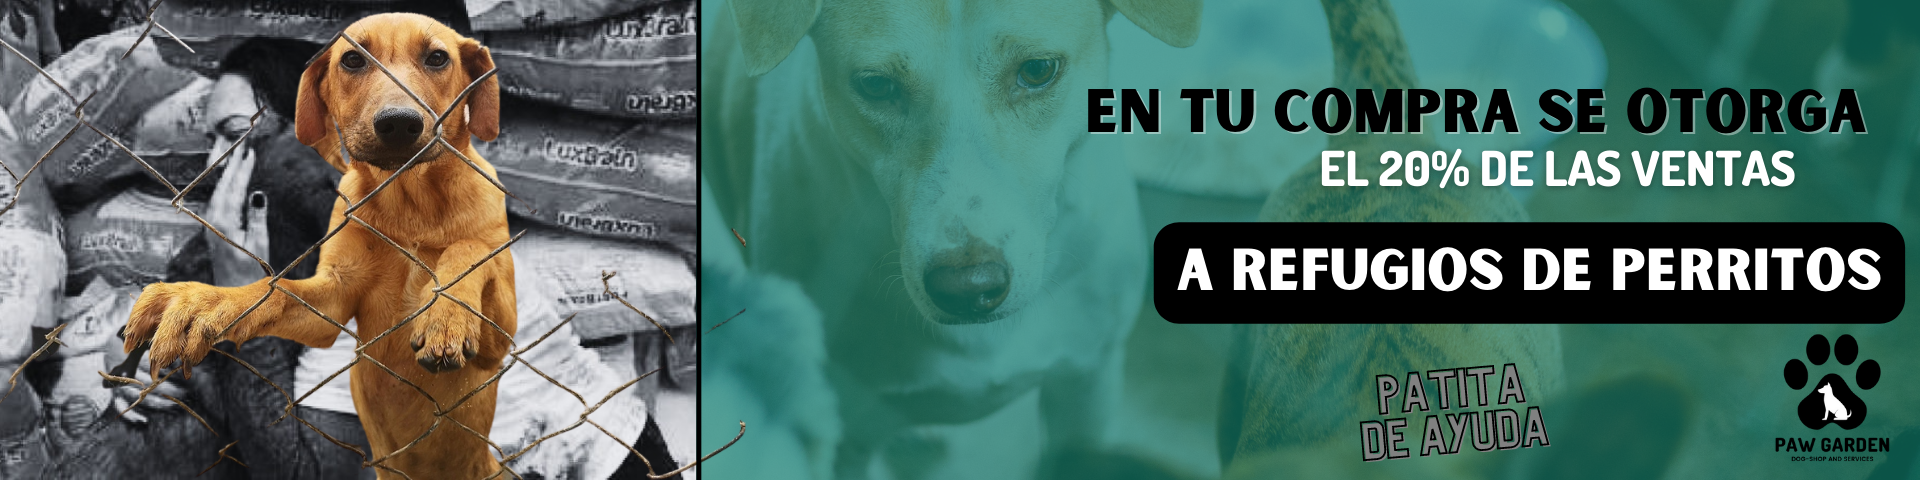
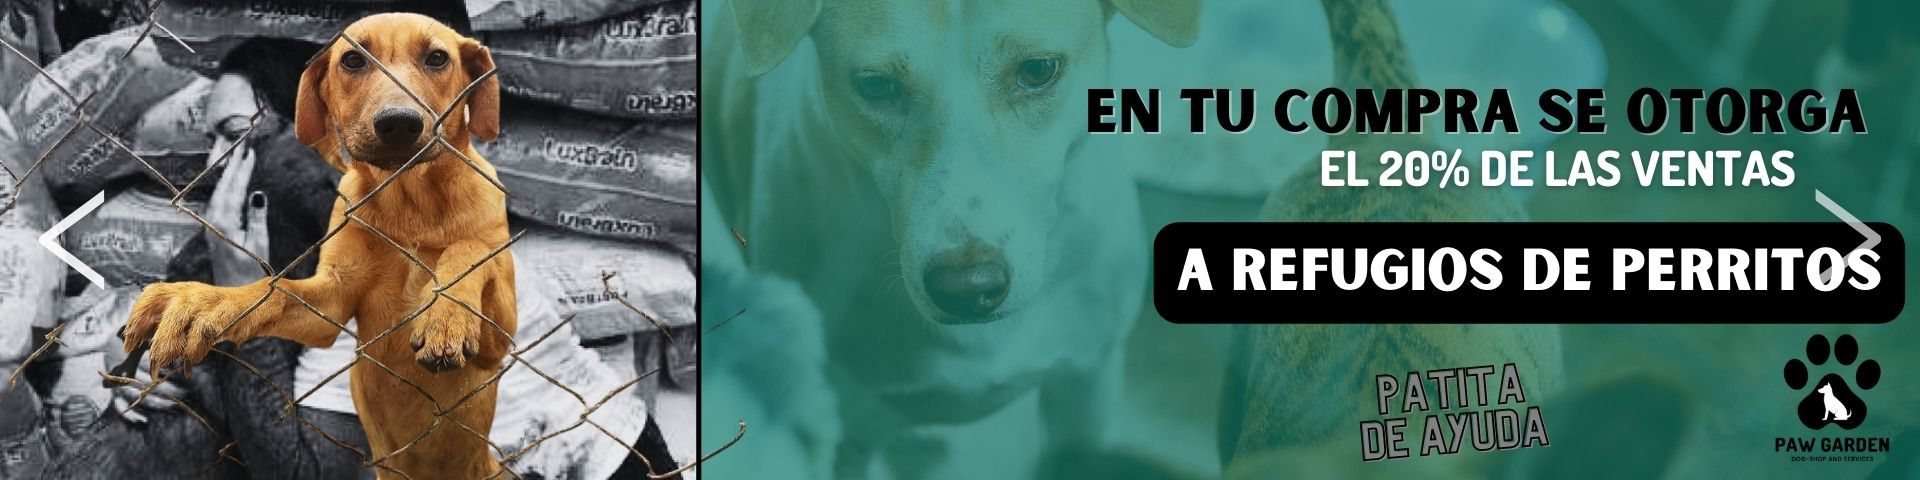
script contact

diff --git a/accessories/accessories.html b/accessories/accessories.html
@@ -119,24 +119,25 @@
             </div>
           </div>
           <!--boton carrucel-->
-          <button
-            class="carousel-control-prev"
-            type="button"
-            data-bs-target="#carouselExampleControls"
-            data-bs-slide="prev"
-          >
-            <span class="carousel-control-prev-icon" aria-hidden="true"></span>
-            <span class="visually-hidden">Previous</span>
-          </button>
-          <button
-            class="carousel-control-next"
-            type="button"
-            data-bs-target="#carouselExampleControls"
-            data-bs-slide="next"
-          >
-            <span class="carousel-control-next-icon" aria-hidden="true"></span>
-            <span class="visually-hidden">Next</span>
-          </button>
+          <div class="caroucelButton" ><button
+                  class="carousel-control-prev"
+                  type="button"
+                  data-bs-target="#carouselExampleControls"
+                  data-bs-slide="prev"
+                >
+                  <span class="carousel-control-prev-icon" aria-hidden="true"></span>
+                  <span class="visually-hidden">Previous</span>
+                </button>
+                <button
+                  class="carousel-control-next"
+                  type="button"
+                  data-bs-target="#carouselExampleControls"
+                  data-bs-slide="next"
+                >
+                  <span class="carousel-control-next-icon" aria-hidden="true"></span>
+                  <span class="visually-hidden">Next</span>
+                </button>
+          </div>
         </div>
       </div>
       <!--Termina carrucel-->
@@ -150,7 +151,7 @@
                   <div class="accessory">
                     <h3 class="accessory__name">Impermeable reflejante</h3>
                     <a href="individualAccessories/raincoat.html"><img src="../Base/img/imgAccessories/raincoat.webp" alt="accessory-paw" class="accesory__picture"/></a>             
-                      <p class="accessory__description">
+                    <p class="accessory__description">
                         <strong>Tipo: </strong>Ropa <br/>               
                         <strong>Marca: Havenfly</strong> <br/>
                         </strong>
@@ -166,7 +167,9 @@
                           <option value="mediano">Med. 60cm</option>
                         </select>
                       </p>
-                      
+                      <a class="header__link" href="../accessories/individualAccessories/raincoat.html"><span>Ver más</span><img
+                        src="../Base/img/imgAccessories/lupa.jpg"></a> 
+
                       <p class="accessory__price">$<span>449</span></p>
                       <div class="button">
                         <button class="buy__button">Añadir a mi carrito</button>
@@ -192,6 +195,8 @@
                           <option value="500ml">500 ml</option>
                         </select>
                       </p>
+                      <a class="header__link" href="../accessories/individualAccessories/waterBottle.html"><span>Ver más</span><img
+                        src="../Base/img/imgAccessories/lupa.jpg"></a> 
                       <p class="accessory__price">$<span>340</span></p>
                       <div class="button"><button class="buy__button">Añadir a mi carrito</button>
                       </div>
@@ -217,6 +222,8 @@
                           <option value="unitalla">Unitalla</option>
                         </select>
                       </p>
+                      <a class="header__link" href="../accessories/individualAccessories/wasteBag.html"><span>Ver más</span><img
+                        src="../Base/img/imgAccessories/lupa.jpg"></a> 
                       <p class="accessory__price">$<span>299</span> </p>
                       <div class="button"><button class="buy__button">Añadir a mi carrito</button>
                       </div>
@@ -242,6 +249,8 @@
                           <option value="unitalla">Unitalla</option>
                         </select>
                       </p>
+                      <a class="header__link" href="../accessories/individualAccessories/bed.html"><span>Ver más</span><img
+                        src="../Base/img/imgAccessories/lupa.jpg"></a> 
                       <p class="accessory__price">$<span>350</span></p>
                       <div class="button"><button class="buy__button">Añadir a mi carrito</button>
                       </div>
@@ -267,6 +276,8 @@
                         <option value="unitalla">33 cm</option>
                       </select>
                     </p>
+                    <a class="header__link" href="../accessories/individualAccessories/Led.html"><span>Ver más</span><img
+                      src="../Base/img/imgAccessories/lupa.jpg"></a> 
                     <p class="accessory__price">$<span>200</span></p>
                     <div class="button"><button class="buy__button">Añadir a mi carrito</button>
                     </div>
@@ -288,6 +299,8 @@
                         <option value="chico">chico</option>
                       </select>
                     </p>
+                    <a class="header__link" href="../accessories/individualAccessories/cleanPaw.html"><span>Ver más</span><img
+                      src="../Base/img/imgAccessories/lupa.jpg"></a> 
                     <p class="accessory__price">$<span>190</span></p>
                     <div class="button"><button class="buy__button">Añadir a mi carrito</button>
                     </div>
@@ -312,6 +325,8 @@
                         <option value="unitalla">21 cm</option>
                       </select>
                     </p>
+                    <a class="header__link" href="../accessories/individualAccessories/carpetlick.html"><span>Ver más</span><img
+                      src="../Base/img/imgAccessories/lupa.jpg"></a> 
                     <p class="accessory__price">$<span>400</span></p>
                     <div class="button"><button class="buy__button">Añadir a mi carrito</button>
                     </div>
@@ -334,6 +349,8 @@
                         <option value="unitalla">43 cm</option>
                       </select>
                     </p>
+                    <a class="header__link" href="../accessories/individualAccessories/trainerForBathroom.html"><span>Ver más</span><img
+                      src="../Base/img/imgAccessories/lupa.jpg"></a> 
                     <p class="accessory__price">$<span>370</span></p>
                     <div class="button"><button class="buy__button">Añadir a mi carrito</button>
                     </div>
@@ -359,6 +376,8 @@
                         <option value="unitalla">12 cm</option>
                       </select>
                     </p>
+                    <a class="header__link" href="../accessories/individualAccessories/Shoes.html"><span>Ver más</span><img
+                      src="../Base/img/imgAccessories/lupa.jpg"></a> 
                     <p class="accessory__price">$<span>299</span></p>
                     <div class="button"><button class="buy__button">Añadir a mi cesta</button>
                     </div>
@@ -379,6 +398,8 @@
                         <option value="unitalla">10 cm</option>
                       </select>
                     </p>
+                    <a class="header__link" href="../accessories/individualAccessories/toothPaste.html"><span>Ver más</span><img
+                      src="../Base/img/imgAccessories/lupa.jpg"></a> 
                     <p class="accessory__price">$<span>250</span></p>
                     <div class="button"><button class="buy__button">Añadir a mi carrito</button>
                     </div>
@@ -399,6 +420,8 @@
                       <option value="unitalla">22 cm</option>
                     </select>
                   </p>
+                  <a class="header__link" href="../accessories/individualAccessories/highPlate.html"><span>Ver más</span><img
+                    src="../Base/img/imgAccessories/lupa.jpg"></a> 
                   <p class="accessory__price">$<span>250</span></p>
                   <div class="button"><button class="buy__button">Añadir a mi carrito</button>
                   </div>
@@ -422,6 +445,8 @@
                       <option value="chico">130 cm</option>
                     </select>
                   </p>
+                  <a class="header__link" href="../accessories/individualAccessories/carSeat.html"><span>Ver más</span><img
+                    src="../Base/img/imgAccessories/lupa.jpg"></a> 
                   <p class="accessory__price">$<span>799</span></p>
                   <div class="button"><button class="buy__button">Añadir a mi carrito</button>
                   </div>
@@ -446,6 +471,8 @@
                       <option value="chico">13 cm</option>
                     </select>
                   </p>
+                  <a class="header__link" href="../accessories/individualAccessories/backpackWithHarness.html"><span>Ver más</span><img
+                    src="../Base/img/imgAccessories/lupa.jpg"></a> 
                   <p class="accessory__price">$<span>280</span></p>
                   <div class="button"><button class="buy__button">Añadir a mi carrito</button>
                   </div>
@@ -467,6 +494,8 @@
                     <option value="unitalla">Unitalla</option>
                   </select>
                 </p>
+                <a class="header__link" href="../accessories/individualAccessories/chip.html"><span>Ver más</span><img
+                  src="../Base/img/imgAccessories/lupa.jpg"></a> 
                 <p class="accessory__price">$<span>218</span></p>
                 <div class="button"><button class="buy__button">Añadir a mi carrito</button>
                 </div>
@@ -478,7 +507,6 @@
                   <strong>Tipo: </strong>Placa de identificación
                   <br/>
                   <strong>Marca:  </strong> Beirui<br />
-                  <strong>Tipo</strong> <br />
                   Contenido personalizable<br/>
                   Acero inoxidable<br/>
                   <strong>Color:</strong>
@@ -489,6 +517,8 @@
                     <option value="unitalla">Unitalla</option>
                   </select>
                 </p>
+                <a class="header__link" href="../accessories/individualAccessories/identificationTag.html"><span>Ver más</span><img
+                  src="../Base/img/imgAccessories/lupa.jpg"></a> 
                 <p class="accessory__price">$<span>299</span></p>
                 <div class="button"><button class="buy__button">Añadir a mi carrito</button>
                 </div>

diff --git a/Contact-us/contact-us.html b/Contact-us/contact-us.html
@@ -66,22 +66,23 @@
             </div>
         </div>
         <!--En esta sección se modifica el formulario-->
-        <div class="container form" id="frm">
+        <div class="container form" id="form">
+            <fieldset>
             <div class="row justify-content-center">
                 
                 <div class="col-xxl-4 col-lg-5 col-md-5 col-sm-6  form-group"><!--Se determina la responsividad de las columnas a diferentes tamaños-->
                     <legend> Nombre(s) </legend>
-                    <input type="text" class="form-control-lg " id="data" placeholder="" size="40">
+                    <input type="text" class="form-control-lg " name="nombre" id="nombre" placeholder="" size="40" required>
                 </div>
                 <div class="col-xxl-4 col-lg-5 col-md-5 col-sm-6  form-group"><!--Usando clases de bootstap -->
                     <legend>Teléfono</legend>
-                    <input type="tel" class="form-control-lg " id="data" placeholder="" maxlength="10"
+                    <input type="tel" class="form-control-lg " name="tel" id="tel" placeholder="" maxlength="10"
                         minlength="10" size="40">
                 </div>
                 <div class="col-xxl-4 col-lg-5 col-md-5 col-sm-6 form-group">
                     <legend>Correo</legend>
-                    <input type="email" class="form-control-lg " id="data" placeholder="" maxlength="30"
-                        size="40">
+                    <input id="email" type="email" name="email" class="form-control-lg "  placeholder="" maxlength="30"
+                        size="40" required>
                 </div>
             </div>
 
@@ -90,7 +91,7 @@
             <div class="row ">
                 <div class="col-12 form-group" style="padding:10px;">
                     <textarea class="form-control" id="data1" rows="6"
-                        placeholder="Introduce tu mensaje"></textarea>
+                        placeholder="Introduce tu mensaje" required></textarea>
                 </div>
             </div>
             <div class="row justify-content-center " >
@@ -101,10 +102,14 @@
 
             <div class="row justify-content-center ">
                 <div class="col align-self-end form-group">
-                    <button id="data2" type="submit" class=" border-0">Enviar</button>
+                    <button id="submit" type="submit" class="btn" onclick="validacion()">Enviar</button>
+                    <p class="warnings" id="warnings"></p>
+
                 </div>
             </div>
+           
 
+            </fieldset>
         </div>
 
     </section>
@@ -140,6 +145,7 @@
     <script src="https://cdn.jsdelivr.net/npm/bootstrap@5.1.3/dist/js/bootstrap.bundle.min.js"
     integrity="sha384-ka7Sk0Gln4gmtz2MlQnikT1wXgYsOg+OMhuP+IlRH9sENBO0LRn5q+8nbTov4+1p"
     crossorigin="anonymous"></script>
+    <script src="/Contact-us/script.js"></script>
 </body>
 </html>
 

diff --git a/Contact-us/script.js b/Contact-us/script.js
@@ -1,0 +1,45 @@
+console.log("Hola");
+const nombre = document.getElementById("nombre");
+const tel = document.getElementById("tel")
+const email = document.getElementById("email");
+const mensaje = document.getElementById("data1");
+const form = document.getElementById("form")
+const parrafo = document.getElementById("warnings")
+const expresionRegular = /^\w+([\.-]?\w+)*@\w+([\.-]?\w+)*(\.\w{2,3})+$/;
+
+eventListeners()
+
+function eventListeners(){
+    nombre.addEventListener("blur",validarFormulario);
+    tel.addEventListener("blur", validarFormulario);
+    email.addEventListener("blur", validarFormulario);
+}
+
+function validarFormulario(val){
+        
+    if(val.target.value != 0){
+        if((val.target.type == "text")){
+            console.log("nombre");
+        }
+        else if(val.target.type == "tel"){
+            if(this.value.length == 10){
+                console.log("correcto"); 
+            }
+            else{
+                console.log("incorrecto"); 
+            }
+        }
+        else if(val.target.type == "email"){
+            if(expresionRegular.test(val.target.value))
+                console.log("funciona");
+            else{
+                console.log("no funciona")
+            }
+        }
+    }
+
+}
+
+function validacion(){
+
+}

diff --git a/accessories/accessories.css b/accessories/accessories.css
@@ -43,7 +43,7 @@
     font-size: 4rem;
     text-transform: uppercase;
     margin-bottom: 3rem;
-    margin-left: 2rem;
+    margin-left: 4rem;
     text-align: center;
     margin-bottom: 10rem;
 
@@ -101,9 +101,8 @@
 .accesory__picture{
     height: 30rem;
     width: 30rem;
-    margin-left: auto;
-    margin-right: auto;
-    margin-top: 0%;
+    margin-left: 0.5rem;
+    text-align: center;
 }
 
 /*usar para la clase zoom*/
@@ -159,4 +158,12 @@
     color: var(--white);
     background-color: var(--primary);
     border: 1px solid var(--white);
+}
+.carouselButton{
+    width: 6000%;
+    max-height: 460px;
+}
+.carousel-control-next-icon{
+    content: "<";
+    font-size: 400%;
 }

diff --git a/Contact-us/contact-us.css b/Contact-us/contact-us.css
@@ -28,7 +28,7 @@
 }
 
 /* Styles for the "Form" section */
-#frm {
+#form {
     text-align: center;
     height: fit-content;
     margin-top: 70px;
@@ -52,7 +52,7 @@
     min-width: 150px;
 }
 
-#data {
+#nombre, #tel, #email{
     text-align: center;
     border-radius: 5px;
     border: 1px solid var(--primary);
@@ -66,7 +66,7 @@
 
 }
 
-#data2 {
+#submit {
     text-align: center;
     background-color: white;
     border-radius: 10px;
@@ -83,7 +83,7 @@
     transition: background-color;
     transition-duration: .5s;
 }
-#data2:hover{
+#submit:hover{
     background-color: var(--primary);
     color: white;
  }

diff --git a/accessories/individualAccessories/backpackWithHarness.html b/accessories/individualAccessories/backpackWithHarness.html
@@ -51,13 +51,11 @@
     <div class="container__description"> 
 
         <h2 class="accessory__title">Mochila con arnes </h2><br/>    
-
-           
-
         <div class="description__grid">        
             <div class="accessory__img">        
                     <img src="../../Base/img/imgAccessories/backpackWithHarness.jpg" alt="img" class="accesory__pictures">
             </div>
+
             <div class="accessory__text">
                 
                         <p class="description">
